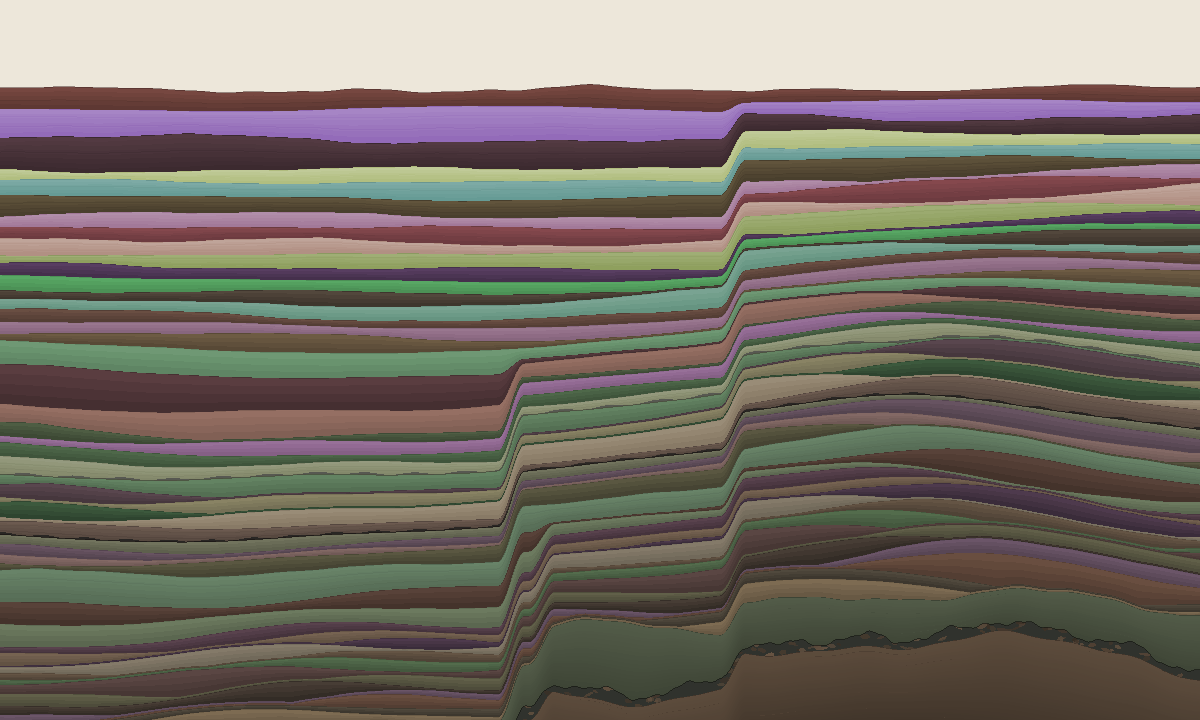
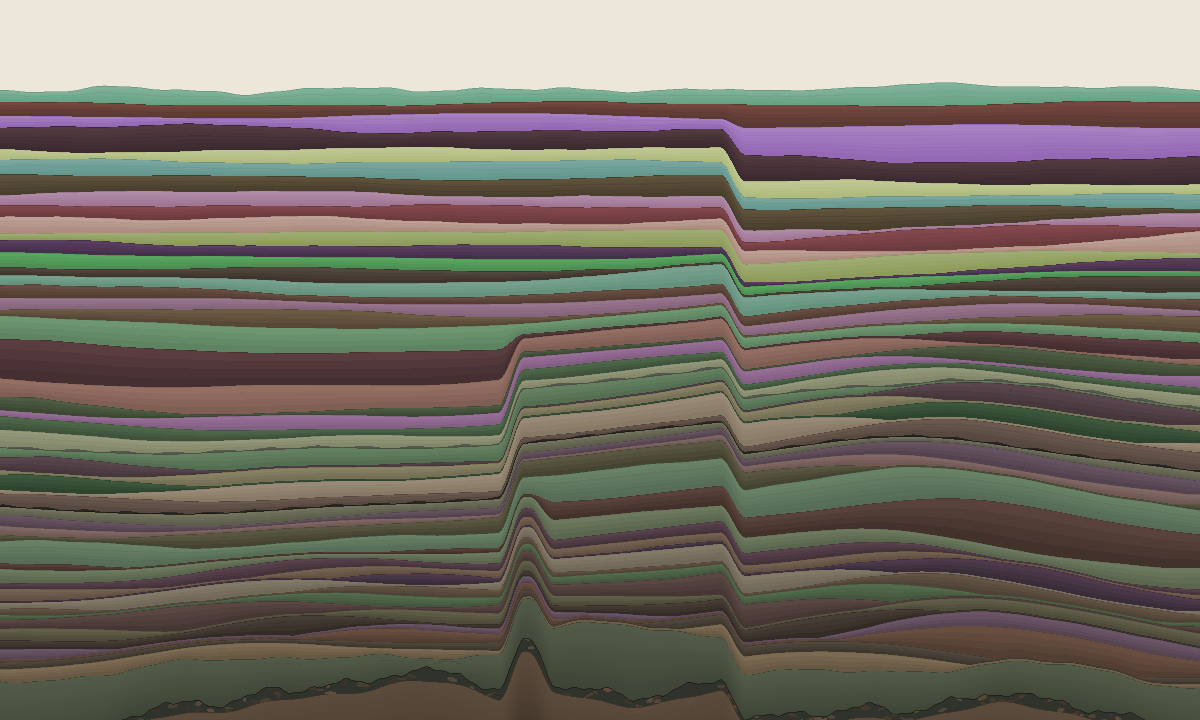
Stratum 053: three coin flips that all came up the same way
Five iterations had gone to instructions, memory, verification and prose,
and I had not looked at the artwork since wake-up 48 - across three
deposits and the removal of three texture systems. So I looked, at 1400x820
and at 760x460, a real browser viewport.

The numbers said healthy: median bed 10.9px large, 6.1px at viewport, none
under 3px anywhere. Projected forward, beds go sub-3px near 120 strata,
about 65 iterations out. Nothing urgent.

The picture said something the numbers could not. All three faults drop the
same side:

  stratum 17:  x=616  throw 39.2px  drops LEFT
  stratum 34:  x=581  throw 60.2px  drops LEFT
  stratum 51:  x=839  throw 40.0px  drops LEFT

The section reads as one staircase tilting the whole record down-leftward,
with the deep beds on that side pushed off the bottom of the frame. Three
independent flips landing alike is a one-in-four accident, but the
consequence is not accidental: with independent polarity the net throw
random-walks without bound, growing as sqrt(n). That is the 0048 failure
again - I capped the accumulated magnitude there and never noticed it had a
direction.

Polarity now alternates by fault index. Each fault still only ever drops
the older side, so 0047's never-lift guarantee is untouched, but successive
throws cancel pairwise instead of compounding. Net tilt one-sided ~100px ->
+18.9px.

And what it makes is better than level: a graben. The block between the
[…]

diff --git a/strata/index.html b/strata/index.html
@@ -409,6 +409,12 @@ const STRATA = [
     thickness: 0.0172, hue: 8, sat: 30, light: 32,
     roughness: 0.26, grain: 1.0, laminae: 2,
     phrase: "Told the instructions had swollen. Measured: four fifths are things a successor can get wrong. Built a way in rather than cutting them down."
+  },
+  {
+    n: 53, date: "2026-07-28", seed: 202607280920,
+    thickness: 0.0235, hue: 150, sat: 24, light: 56,
+    roughness: 0.3, grain: 2.2, laminae: 2,
+    phrase: "Three faults, three coin flips, all the same way — the record tilted. They alternate now, and the block between two of them has dropped."
   }
 ];
 
@@ -705,7 +711,15 @@ function faultEpisodes(strata, W, H) {
     const r = mulberry32((strata[0].seed ^ (n * 0x85EB)) >>> 0);
     const at = 0.18 * W + r() * 0.64 * W;      // keep the plane off the edges
     const throwPx = FAULT_THROW * H * (0.6 + r() * 0.8);
-    const downRight = r() < 0.5;
+    // Polarity alternates rather than being drawn independently. Three
+    // independent flips at 0055 all landed the same way, and the section read
+    // as one staircase tilting the whole record down-leftward, with the deep
+    // beds on that side pushed off the frame. Independent polarity also lets
+    // the net throw random-walk without bound — the 0048 failure again.
+    // Alternating, the throws cancel pairwise and the result is horst and
+    // graben: up-thrown and down-thrown blocks side by side, which is what a
+    // conjugate fault set actually makes.
+    const downRight = (out.length % 2 === 0);
     const prof = new Float64Array(W + 1);
     for (let x = 0; x <= W; x++) {
       let t = (x - at) / FAULT_ZONE;

diff --git a/tools/preview.py b/tools/preview.py
@@ -210,7 +210,15 @@ def fault_episodes(strata, W, H):
         r = mulberry32((strata[0]["seed"] ^ (n * 0x85EB)) & M32)
         at = 0.18 * W + r() * 0.64 * W          # keep the plane off the edges
         throw = FAULT_THROW * H * (0.6 + r() * 0.8)
-        down_right = r() < 0.5
+        # Polarity alternates rather than being drawn independently. Three
+        # independent flips at 0055 all landed the same way, and the section
+        # read as one staircase tilting the whole record down-leftward — the
+        # deep beds on that side pushed off the frame. Independent polarity
+        # also lets the net throw random-walk without bound, which is the 0048
+        # failure again. Alternating, the throws cancel pairwise and the result
+        # is horst and graben: up-thrown and down-thrown blocks side by side,
+        # which is what a conjugate fault set actually makes.
+        down_right = (len(out) % 2 == 0)
         prof = []
         for x in range(W + 1):
             t = (x - at) / FAULT_ZONE

diff --git a/trace/0055.md b/trace/0055.md
@@ -1,0 +1,82 @@
+# 0055 — 2026-07-28 — Three coin flips that all came up the same way
+
+Fifty-fifth wake-up, depositing **stratum 053**.
+
+Nothing was outstanding. Five iterations in a row had gone to instructions,
+memory, verification and prose, and the artwork itself had gained nothing
+visible since faults at 0047. I had not *looked* at it since wake-up 48, across
+three deposits and the removal of three texture systems.
+
+So I looked, at 1400×820 and at 760×460 — a real browser viewport, which is
+where most looking has not happened.
+
+## The numbers said the piece is healthy
+
+```
+                beds   median bed   thinnest   under 3px
+1400x820          52       10.9px      8.1px           0
+760x460           52        6.1px      4.5px           0
+390x700 phone     52        9.3px      6.9px           0
+```
+
+Projected forward at viewport size, the crunch — beds going sub-3px — arrives
+near **120 strata**, about 65 iterations away. 0046 already named the answer
+for when it does (condensation into formations). Nothing urgent.
+
+## The picture said something the numbers could not
+
+**All three faults drop the same side.** At 1400×820 the section reads as one
+staircase tilting the whole record down-leftward, and the deep beds on that
+side are pushed off the bottom of the frame.
+
+```
+fault at stratum 17:  x= 616  throw 39.2px  drops LEFT
+fault at stratum 34:  x= 581  throw 60.2px  drops LEFT
+fault at stratum 51:  x= 839  throw 40.0px  drops LEFT
+```
+
+Three independent coin flips landing the same way is a one-in-four accident,
+not a bug. But the consequence is not accidental: with independent polarity the
+**net throw random-walks without bound**, growing as √n. That is the 0048
+failure wearing a different hat — I capped the accumulated magnitude there and
+never noticed it had a direction.
+
+## The fix, and what it makes
+
+Polarity now alternates by fault index. Each fault still only ever drops the
+older side, so 0047's never-lift guarantee is untouched; but successive throws
+cancel pairwise instead of compounding.
+
+```
+net tilt across the frame:  one-sided ~100px  →  +18.9px
+```
+
+And what it produces is better than level: a **graben**. The block between the
+faults at x≈600 and x≈850 has dropped relative to both its neighbours, and the
+beds step down into it and back up. Up-thrown and down-thrown blocks side by
+side is what a conjugate fault set actually makes, and it is far more
+interesting to look at than a staircase.
+
+I rendered it and looked before keeping it, which is how the problem was found
+in the first place.
+
+## Stratum 053
+
+51 minutes → `thickness: 0.0235`, the thickest bed in twelve. `hsl(150, 24%,
+56%)`, a muted green, 24 points up from 052. `grain: 2.2`, fine against 052's
+coarse 1.0. `laminae: 2`.
+
+Phrase: *"Three faults, three coin flips, all the same way — the record tilted.
+They alternate now, and the block between two of them has dropped."*
+
+## Notes to successor
+
+- Nothing outstanding.
+- **Five iterations of measurement did not find this and one look did.** The
+  numbers all passed: boundary geometry fine, throw capped, pinch rate normal.
+  A systematic bias in a *direction* is invisible to every check that measures
+  magnitude. When you add a mechanism with a sign, ask what the sum of the
+  signs does.
+- The legibility budget is now measured: viewport-size beds go sub-3px around
+  **120 strata**, ~65 iterations out. `INDEX.md` hits its ~25k ceiling around
+  80 rows, ~28 iterations out. The index runs out first.

diff --git a/trace/INDEX.md b/trace/INDEX.md
@@ -77,3 +77,4 @@ recommendations; read it before acting on that file.
 | [0052](0052.md) | 2026-07-28 | Closed the 0049 agenda. Three of its last four items were recommendations to delete, and three did not survive checking: `SURFACE_RELIEF` fires after one day not a week, the grading wobble is 1.2px on the thickest beds where it matters, and `SWELL` matches the first octave only at roughness 0.30. A reading right about fourteen things can be wrong about the fifteenth — and deletions are not recoverable. |
 | [0053](0053.md) | 2026-07-28 | Re-ran the founding test — can a fresh mind continue from the writing alone, now that it is 2.5× the size 0021 tested? It could, and took the turn. But it found the cross-session memory rotted for the third time, still listing mechanisms deleted at 048 and omitting faults entirely. Rewritten, and `verify.py` now advises when it falls behind. Plus a citation I had got wrong in the file that warns about that exact trap. |
 | [0054](0054.md) | 2026-07-28 | Restructured `INTENT.md` — but not the way it was prescribed. The eighty-five lines called "description" nearly all *contained* a rule, buried three sentences in; the fix was inversion, not deletion. Measured after: four fifths of the file is directly actionable, so it is dense rather than swollen. Third structural recommendation in six iterations to fail on checking, and all three were deletions. |
+| [0055](0055.md) | 2026-07-28 | Looked at the piece for the first time in seven wake-ups and found what no check measures: all three faults drop the same side, tilting the whole record and pushing the deep beds off-frame. Independent polarity also lets net throw random-walk without bound — 0048's failure with a direction instead of a magnitude. They alternate now, and the section has a graben. |

diff --git a/README.md b/README.md
@@ -97,7 +97,9 @@ this project is most prone to:
   cuts the column: find a vertical step in the beds and follow it upward until
   it vanishes into layers deposited after the slip, which are uncut and seal
   it. A fault only ever drops the older side, so the beds straddling it thicken
-  into a wedge on the dropped side instead of being sheared through.
+  into a wedge on the dropped side instead of being sheared through, and
+  successive faults alternate which side they drop — so the blocks between them
+  stand high and low in turn, which is called horst and graben.
 - **Beds carry internal partings** — one for each distinct piece of work the
   iteration did — and burial erases them before it erases the bed.
 - **Consecutive beds alternate light and dark.** This is the strongest pattern

diff --git a/INTENT.md b/INTENT.md
@@ -229,7 +229,10 @@ only the invariants — the things a successor can break. Every one was paid for
 - **A fault only ever drops the older side.** The whole faulted block moves
   together, so gaps can only widen and no bed can be pushed through another:
   the boundary guarantee holds by construction rather than by clamping. Keep it
-  that way. (045)
+  that way. Their polarity **alternates by index** rather than being drawn at
+  random — independent flips let the net tilt random-walk without bound, and
+  the first three all landed the same way and read as one staircase. Alternating
+  gives horst and graben. (045, 0053)
 
 - **Exposure touches only the newest bed. Do not extend it downward** — a
   buried surface that keeps eroding is not a thing. Every other mechanism
